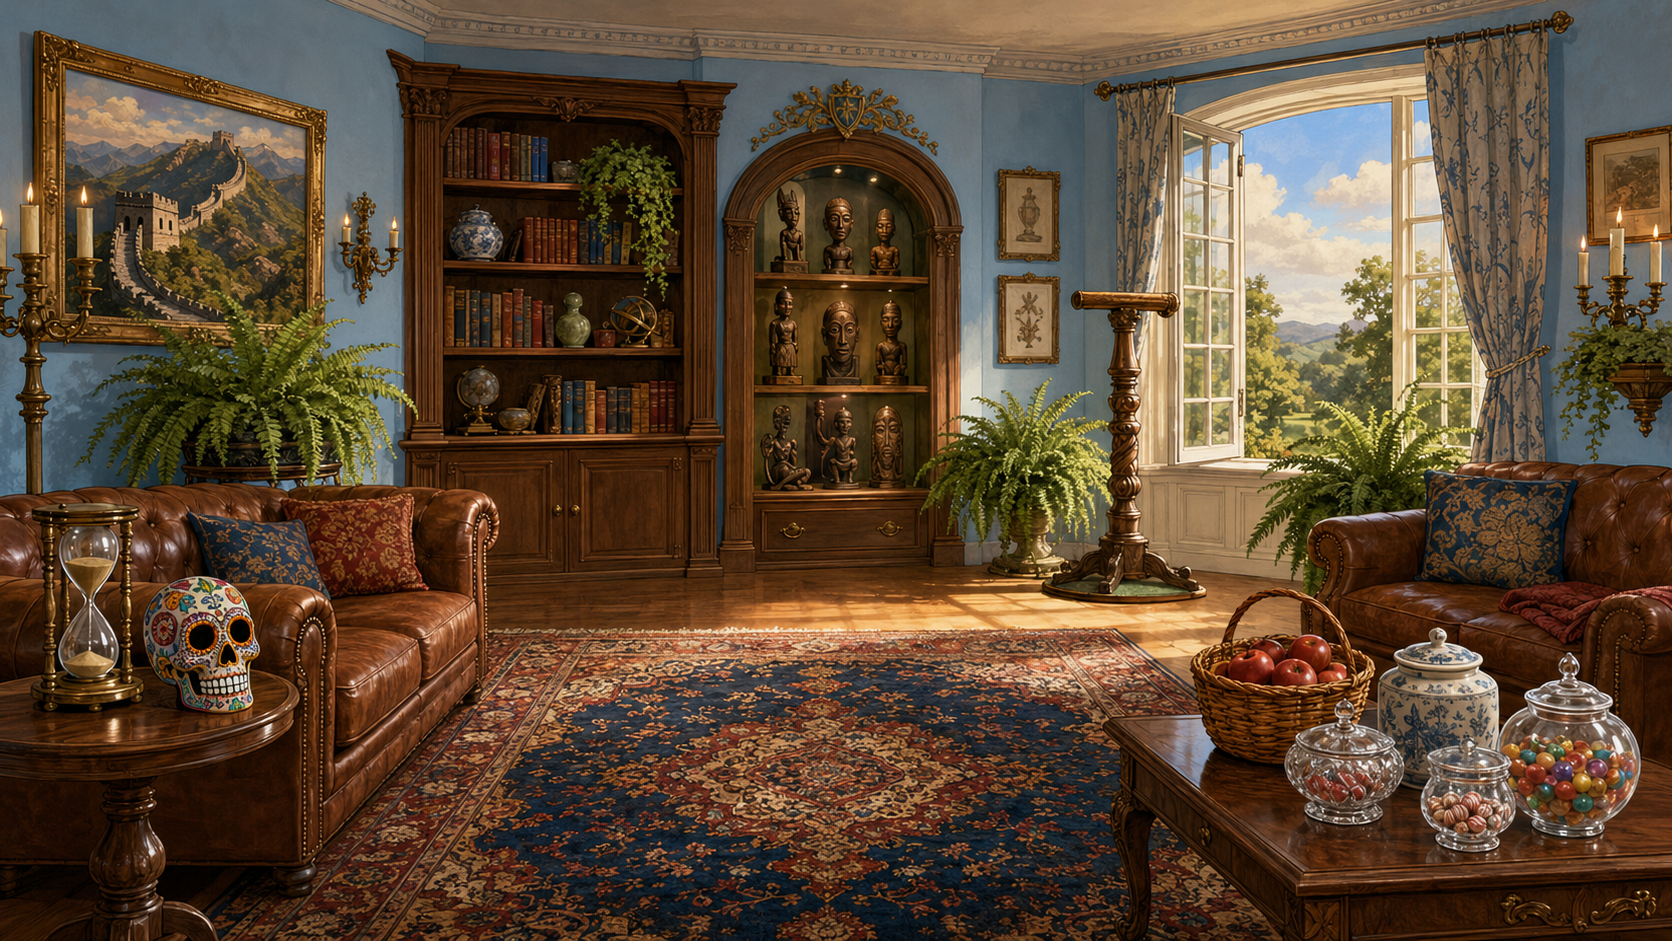
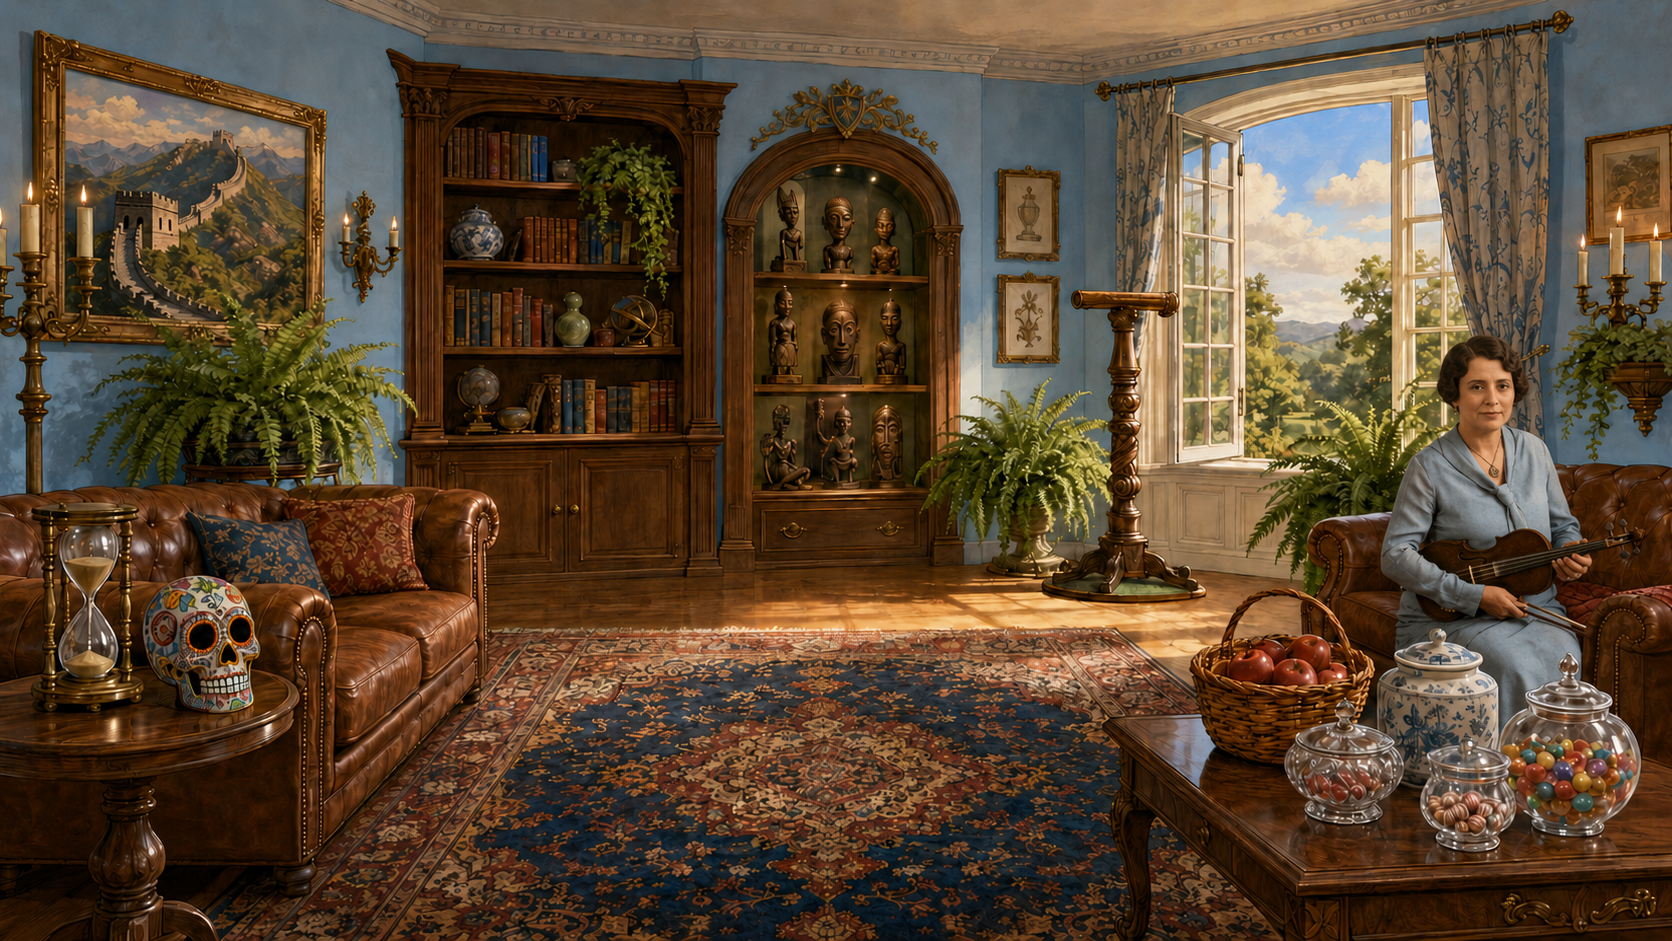
Ajoute La Bolduc au grand salon

diff --git a/app/components/GrandSalonPage.tsx b/app/components/GrandSalonPage.tsx
@@ -45,7 +45,7 @@ const objects: SalonObject[] = [
   {id: "wall", icon: "🖼️", left: "1%", top: "4%", width: "20%", height: "35%"},
   {id: "statues", icon: "🗿", left: "45%", top: "11%", width: "14%", height: "42%"},
   {id: "perch", icon: "🦉", left: "62%", top: "24%", width: "11%", height: "39%"},
-  {id: "window", icon: "🪟", left: "70%", top: "5%", width: "22%", height: "47%"},
+  {id: "window", icon: "🪟", left: "64%", top: "5%", width: "18%", height: "47%"},
   {id: "apples", icon: "🍎", left: "70%", top: "57%", width: "12%", height: "15%"},
   {id: "cookies", icon: "🍪", left: "82%", top: "57%", width: "8%", height: "17%"},
   {id: "candy", icon: "🍬", left: "77%", top: "68%", width: "21%", height: "20%"},